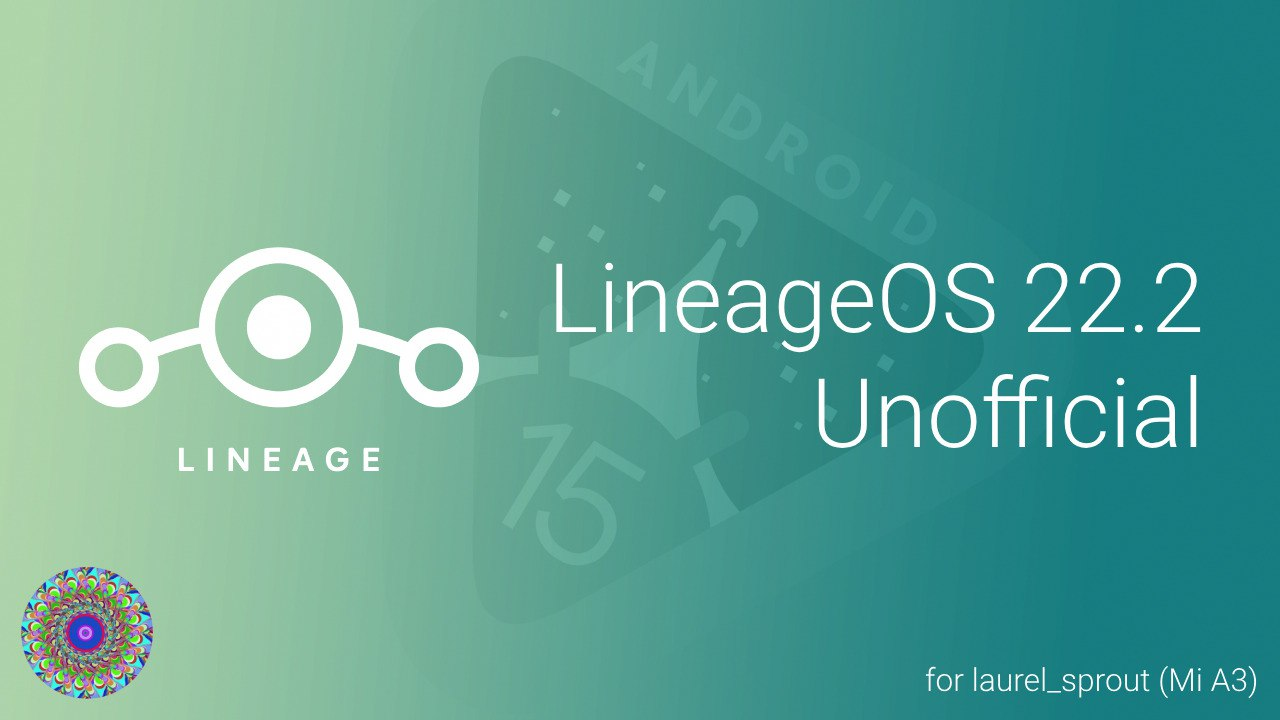
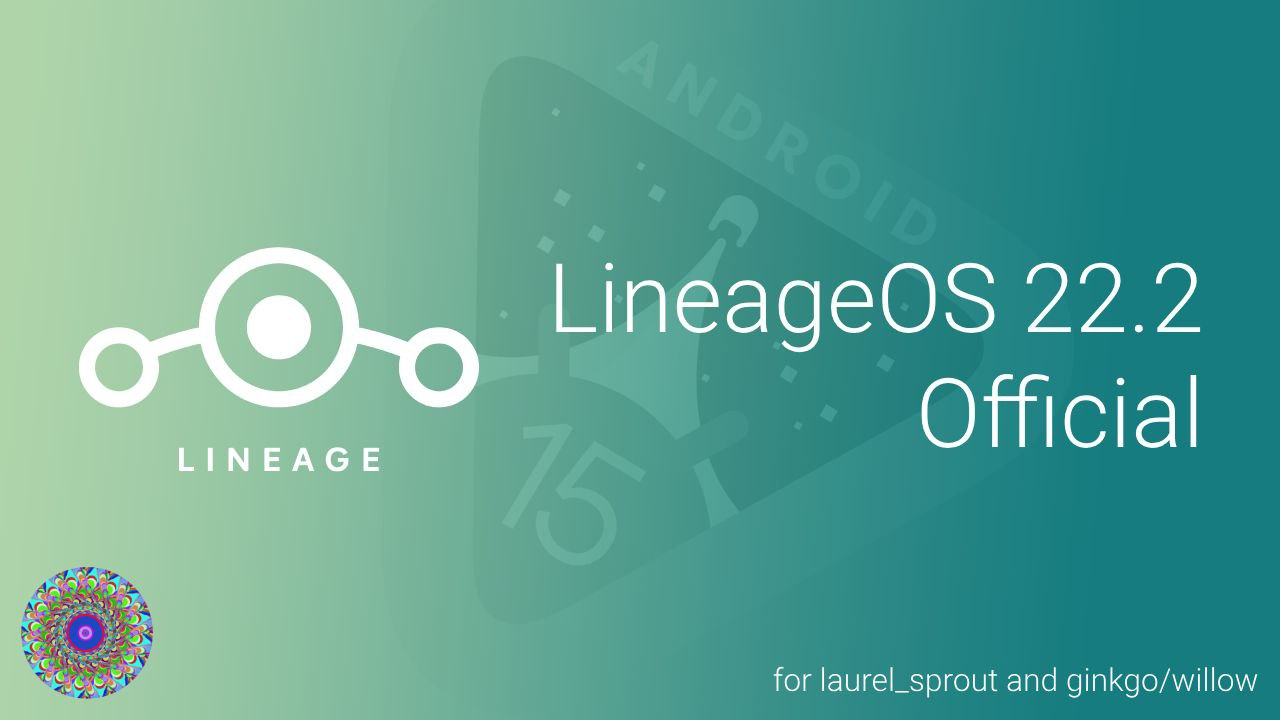
official lineageos 22.2 (#5)
* official lineageos 22.2

* clarify update schedule

* again

* fix typo

* minor syntax fix

Changed region(s): [[0.5938, 0.9167, 1.0, 0.9778], [0.0, 0.7944, 0.125, 0.9778], [0.625, 0.5194, 0.7812, 0.6417]]

diff --git a/blogs/news.md b/blogs/news.md
@@ -1,7 +1,7 @@
 # News - Updates, releases, and more.
 
 ## Posts
-- [07-06-2025 - New AxionOS update.](/blog/news#07-06-2025---new-axionos-update.)
+- [07-06-2025 - New AxionOS update, LineageOS becomes official for laurel_sprout!](/blog/news#07-06-2025---new-axionos-update,-lineageos-becomes-official-for-laurel_sprout!)
 - [02-06-2025 - Minor update for TheSillyOk kernel forks.](/blog/news#02-06-2025---minor-update-for-thesillyok-kernel-forks.)
 - [18-05-2025 - Bugfix update for PixelOS.](/blog/news#18-05-2025---bugfix-update-for-pixelos.)
 - [17-05-2025 - bakka merges May patch for PixelOS.](/blog/news#17-05-2025---bakka-merges-may-patch-for-pixelos.)
@@ -107,8 +107,10 @@
 
 ---
 
-## 07-06-2025 - New AxionOS update.
-...which **requires** a clean flash. For more details, please check [changelog](/roms/AxionOS_15#changelog) and [notes](/roms/AxionOS_15#notes).
+## 07-06-2025 - New AxionOS update, LineageOS becomes official for laurel_sprout!
+The new AxionOS uppdate **requires** a clean flash. For more details, please check [changelog](/roms/AxionOS_15#changelog) and [notes](/roms/AxionOS_15#notes).
+
+And, LineageOS becomes official for our device. The maintainer is still Skyblueborb. This means we will get faster, bi-weekly updates. For more details, check it [here](/roms/LineageOS_15).
 
 ## 02-06-2025 - Minor update for TheSillyOk kernel forks.
 There is probably no need to update, but check it anyway by clicking [here](/kernels/thesillyok_kf).
